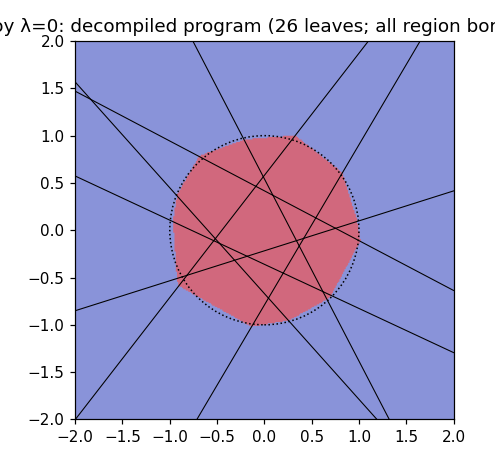
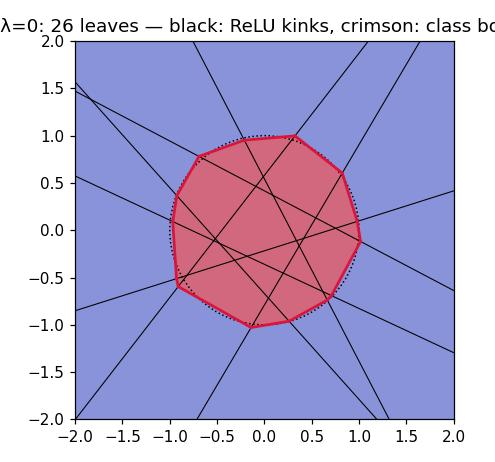
feat(viz): class-boundary overlay + intensional circuit-DAG view
Review follow-ups: (1) the toy overlay drew only ReLU kinks while the
class edge mostly lies INSIDE affine cells (within one cell both logits
are linear and argmax flips where they cross - no kink there); the
overlay now also draws each leaf's logit-crossing segment in crimson,
so region borders (black) and the class decision boundary (crimson)
are both visible and visibly distinct. (2) The decision tree is the
extensional program and explodes with the region count, so
viz.network.plot_folded_dag renders the INTENSIONAL program as a
sparse-circuits-style layered DAG: stage columns with input-space
filter glyphs, signed weighted edges (top-k per consumer), and every
carried coordinate resolved to its origin (earlier unit vs raw input;
raw-input flow aggregates into one affine-bypass node) - the origin
resolver matters: at lambda=1 the 18 units reach the head exclusively
through the carry. Gallery now ships mnist_dag_lam{0.5,1}; empty-stage
edge handling fixed; tests for both.

diff --git a/src/kill_nonlinearities/viz/network.py b/src/kill_nonlinearities/viz/network.py
@@ -22,14 +22,17 @@ import matplotlib
 matplotlib.use("Agg")  # must precede the pyplot import below
 
 import matplotlib.pyplot as plt
+from matplotlib.offsetbox import AnnotationBbox, OffsetImage
 from torch import Tensor
 
 from kill_nonlinearities.analysis.decompile import Branch, Leaf, Node, tree_stats
 from kill_nonlinearities.analysis.statistics import NeuronStats
+from kill_nonlinearities.surgery.fold import FoldedMLP
 
 __all__ = [
     "plot_class_q_matrix",
     "plot_decision_tree",
+    "plot_folded_dag",
     "plot_input_filters",
     "plot_mode_composition",
     "plot_spatial_q_map",
@@ -221,6 +224,174 @@ def plot_decision_tree(
 
     _draw(node)
     ax.set_title(title)
+    try:
+        fig.savefig(path, dpi=110, bbox_inches="tight")
+    finally:
+        plt.close(fig)
+    return path
+
+
+def plot_folded_dag(
+    folded: FoldedMLP,
+    path: Path,
+    image_shape: tuple[int, ...] | None = None,
+    class_names: Sequence[str] | None = None,
+    top_edges: int = 4,
+    title: str = "Folded network as a circuit DAG",
+    max_units: int = 64,
+) -> Path:
+    """The folded network as a layered circuit diagram (sparse-circuits style).
+
+    This is the *intensional* view of the program — the shared computation
+    graph, in contrast to the (exponential) extensional decision tree. One
+    column per surviving-ReLU stage, then the output logits. Stage-0 unit
+    glyphs are their input-space filters when ``image_shape`` is given. Every
+    carried coordinate is resolved back to its ORIGIN (an earlier unit's
+    output, or the raw input), so unit→consumer edges are drawn even when the
+    signal travels through the carry; raw-input contributions are aggregated
+    into one grey "affine bypass" node (edge width ∝ that row block's norm).
+    For each consumer only its ``top_edges`` strongest-|weight| unit inputs
+    are drawn — blue positive, red negative, width ∝ |w|. Refuses networks
+    with more than ``max_units`` surviving units (illegible).
+    """
+    stages = folded.stages
+    widths = [s.out_features for s in stages]
+    total_units = sum(widths)
+    if total_units > max_units:
+        raise ValueError(
+            f"{total_units} surviving units; refusing to render more than "
+            f"{max_units} (raise max_units to override)"
+        )
+    out_dim = folded.head.out_features
+    n_cols = len(stages) + 1
+
+    def _ys(count: int) -> list[float]:
+        if count == 1:
+            return [0.5]
+        return [i / (count - 1) for i in range(count)]
+
+    positions: list[list[tuple[float, float]]] = []
+    for col, width in enumerate(widths):
+        positions.append([(float(col), y) for y in _ys(max(width, 1))][:width])
+    logit_positions = [(float(len(stages)), y) for y in _ys(out_dim)]
+    bypass_position = (float(len(stages)) - 0.5, -0.18)
+
+    fig, ax = plt.subplots(
+        figsize=(3.2 * n_cols, max(4.0, 0.55 * max([*widths, out_dim])))
+    )
+    ax.axis("off")
+    ax.set_xlim(-0.6, len(stages) + 0.6)
+    ax.set_ylim(-0.35, 1.1)
+
+    # Resolve every coordinate of each augmented input u_l to its origin:
+    # ("unit", stage, j) for an earlier ReLU's output, or ("input", i) for a
+    # raw input coordinate carried forward.
+    origins: list[list[tuple]] = [
+        [("input", i) for i in range(stages[0].in_features if stages else 0)]
+    ]
+    for level, (stage, carry) in enumerate(zip(stages, folded.carries, strict=True)):
+        level_origin = [("unit", level, j) for j in range(stage.out_features)]
+        level_origin += [origins[level][int(c)] for c in carry.tolist()]
+        origins.append(level_origin)
+
+    def _draw_edges(
+        weight: Tensor, targets: list[tuple[float, float]], origin: list[tuple]
+    ) -> bool:
+        """Edges into ``targets``; returns whether a bypass edge was drawn."""
+        if weight.numel() == 0:
+            return False
+        unit_cols = [c for c, o in enumerate(origin) if o[0] == "unit"]
+        input_cols = [c for c, o in enumerate(origin) if o[0] == "input"]
+        scale = float(weight.abs().max()) or 1.0
+        used_bypass = False
+        for t, target in enumerate(targets):
+            row = weight[t]
+            unit_weights = row[unit_cols]
+            order = unit_weights.abs().argsort(descending=True)[:top_edges]
+            for k in order.tolist():
+                w = float(unit_weights[k])
+                if w == 0.0:
+                    continue
+                _, stage_idx, j = origin[unit_cols[k]]
+                source = positions[stage_idx][j]
+                ax.plot(
+                    [source[0], target[0]],
+                    [source[1], target[1]],
+                    color="tab:blue" if w > 0 else "tab:red",
+                    lw=0.4 + 2.6 * abs(w) / scale,
+                    alpha=0.65,
+                    zorder=1,
+                )
+            if input_cols:
+                strength = float(row[input_cols].norm())
+                if strength > 0.0:
+                    used_bypass = True
+                    ax.plot(
+                        [bypass_position[0], target[0]],
+                        [bypass_position[1], target[1]],
+                        color="grey",
+                        lw=0.4 + 2.6 * min(1.0, strength / scale),
+                        alpha=0.5,
+                        zorder=1,
+                    )
+        return used_bypass
+
+    used_bypass = False
+    for col in range(1, len(stages)):
+        used_bypass |= _draw_edges(
+            stages[col].weight.detach(), positions[col], origins[col]
+        )
+    if stages:
+        used_bypass |= _draw_edges(
+            folded.head.weight.detach(), logit_positions, origins[len(stages)]
+        )
+
+    # Nodes: stage units (image glyphs at stage 0 when possible), logits, bypass.
+    for col, stage in enumerate(stages):
+        weight = stage.weight.detach().cpu()
+        for j in range(stage.out_features):
+            x, y = positions[col][j]
+            if col == 0 and image_shape is not None:
+                img = weight[j].reshape(image_shape)
+                bound = float(img.abs().max()) or 1.0
+                # Symmetric diverging colors, materialized as RGBA up front.
+                rgba = plt.get_cmap("RdBu_r")((img / bound + 1.0) / 2.0)
+                box = OffsetImage(rgba, zoom=28.0 / max(image_shape))
+                ax.add_artist(AnnotationBbox(box, (x, y), frameon=True, zorder=2))
+            else:
+                ax.scatter([x], [y], s=180, color="lightyellow", ec="grey", zorder=2)
+                ax.text(x, y, f"{col}.{j}", ha="center", va="center", fontsize=6)
+    labels = (
+        list(class_names)
+        if class_names is not None
+        else [str(c) for c in range(out_dim)]
+    )
+    for (x, y), label in zip(logit_positions, labels, strict=True):
+        ax.text(
+            x,
+            y,
+            label,
+            ha="center",
+            va="center",
+            fontsize=8,
+            zorder=2,
+            bbox={"boxstyle": "round", "fc": "lightblue", "ec": "grey"},
+        )
+    if used_bypass:
+        ax.text(
+            bypass_position[0],
+            bypass_position[1],
+            "affine bypass\n(carried input)",
+            ha="center",
+            va="center",
+            fontsize=7,
+            zorder=2,
+            bbox={"boxstyle": "round", "fc": "lightgrey", "ec": "grey"},
+        )
+    ax.set_title(
+        f"{title} — top {top_edges} unit edges per consumer "
+        "(blue +, red -, width ~ |w|)"
+    )
     try:
         fig.savefig(path, dpi=110, bbox_inches="tight")
     finally:

diff --git a/scripts/decompile_report.py b/scripts/decompile_report.py
@@ -193,12 +193,33 @@ def _chord(poly: list[Point], w: list[float], b: float) -> list[Point]:
 
 
 def _draw_boundaries(ax, node, poly: list[Point]) -> None:
-    """Draw EVERY branch hyperplane clipped to its own region (recursively).
+    """Draw region borders AND the class decision boundary (recursively).
 
-    This renders all region borders — including ones separating two regions
-    whose leaves predict the same class.
+    Thin black: every branch hyperplane (ReLU kink) clipped to its own region
+    — including borders separating two same-class regions. Thick crimson: the
+    *argmax* boundary, which lives INSIDE affine cells (within one leaf both
+    logits are linear, and the class flips where they cross — no ReLU kink
+    there), drawn as each leaf's logit-crossing segment clipped to its cell.
     """
-    if not isinstance(node, Branch) or len(poly) < 3:
+    if len(poly) < 3:
+        return
+    if isinstance(node, Leaf):
+        if int(node.weight.shape[0]) == 2:
+            w_dec = [
+                float(node.weight[1, 0] - node.weight[0, 0]),
+                float(node.weight[1, 1] - node.weight[0, 1]),
+            ]
+            b_dec = float(node.bias[1] - node.bias[0])
+            segment = _chord(poly, w_dec, b_dec)
+            if len(segment) == 2:
+                ax.plot(
+                    [segment[0][0], segment[1][0]],
+                    [segment[0][1], segment[1][1]],
+                    color="crimson",
+                    lw=1.8,
+                )
+        return
+    if not isinstance(node, Branch):
         return
     w = [float(node.weight[0]), float(node.weight[1])]
     segment = _chord(poly, w, node.bias)
@@ -231,7 +252,7 @@ def _plot_toy_regions(model: ReLUMLP, tree, lam: float, leaves: int) -> None:
     circle = plt.Circle((0, 0), 1.0, fill=False, color="black", linestyle=":")
     ax.add_patch(circle)
     ax.set_title(
-        f"toy λ={lam:g}: decompiled program ({leaves} leaves; all region borders)"
+        f"toy λ={lam:g}: {leaves} leaves — black: ReLU kinks, crimson: class boundary"
     )
     fig.tight_layout()
     try:

diff --git a/tests/unit/viz/test_network.py b/tests/unit/viz/test_network.py
@@ -6,6 +6,7 @@ import pytest
 import torch
 
 from kill_nonlinearities.analysis.statistics import NeuronStats
+from kill_nonlinearities.surgery.fold import FoldedMLP, fold_mlp, trim_folded
 from kill_nonlinearities.viz import network
 
 
@@ -151,3 +152,32 @@ def test_plot_decision_tree_accepts_leaf_labeler_and_single_leaf(
 def test_plot_decision_tree_refuses_huge_trees(tmp_path: Path) -> None:
     with pytest.raises(ValueError, match="terminal nodes"):
         network.plot_decision_tree(_toy_tree(), tmp_path / "huge.png", max_terminals=1)
+
+
+def _folded(hidden: tuple[int, ...] = (5, 3)) -> FoldedMLP:
+    from kill_nonlinearities.config import ModelConfig
+    from kill_nonlinearities.models.mlp import ReLUMLP
+
+    torch.manual_seed(4)
+    model = ReLUMLP(ModelConfig(input_dim=9, hidden_dims=hidden, output_dim=3))
+    return trim_folded(fold_mlp(model))
+
+
+def test_plot_folded_dag_writes_nonempty_file(tmp_path: Path) -> None:
+    out = network.plot_folded_dag(_folded(), tmp_path / "dag.png")
+    assert out.stat().st_size > 0
+
+
+def test_plot_folded_dag_with_image_glyphs_and_class_names(tmp_path: Path) -> None:
+    out = network.plot_folded_dag(
+        _folded(),
+        tmp_path / "dag_glyphs.png",
+        image_shape=(3, 3),
+        class_names=("a", "b", "c"),
+    )
+    assert out.stat().st_size > 0
+
+
+def test_plot_folded_dag_refuses_wide_networks(tmp_path: Path) -> None:
+    with pytest.raises(ValueError, match="surviving units"):
+        network.plot_folded_dag(_folded(), tmp_path / "wide.png", max_units=2)

diff --git a/scripts/denonlin_gallery.py b/scripts/denonlin_gallery.py
@@ -39,6 +39,7 @@ from kill_nonlinearities.surgery.fold import fold_mlp, folded_stats, trim_folded
 from kill_nonlinearities.training.checkpoint import load_checkpoint
 from kill_nonlinearities.viz.network import (
     plot_class_q_matrix,
+    plot_folded_dag,
     plot_input_filters,
     plot_mode_composition,
     plot_spatial_q_map,
@@ -125,6 +126,17 @@ def mnist_gallery() -> None:
                 OUT_DIR / f"mnist_affine_templates_lam{lam:g}.png",
                 title=f"MNIST λ={lam:g}: the folded network IS this affine map "
                 "(per-class templates)",
+            )
+        elif sum(fstats.nonlinear_widths) <= 64:
+            # The intensional program view: the folded network as a circuit DAG.
+            plot_folded_dag(
+                folded,
+                OUT_DIR / f"mnist_dag_lam{lam:g}.png",
+                image_shape=(28, 28),
+                title=(
+                    f"MNIST λ={lam:g}: the folded network as a circuit "
+                    f"({sum(fstats.nonlinear_widths)} surviving ReLUs)"
+                ),
             )
 
         # Class-indexed firing: which classes does each unit fire for?

diff --git a/docs/research/README.md b/docs/research/README.md
@@ -332,14 +332,38 @@ Tracked work, roughly in order. (File these as GitHub issues — see
   Decompiling the CNN globally needs the census driven down first: much
   stronger/targeted consistency pressure, coarser branch predicates (e.g.
   channel-level tests), or per-sample local programs.
+- **Result 3 — the class boundary is not the region borders.** Review caught
+  that the toy overlay drew only the ReLU kinks (black) while the red/blue
+  class edge mostly didn't lie on them. That is correct behavior made
+  confusing: within one affine cell both logits are linear, so the **argmax
+  boundary cuts through cell interiors** where the logits cross — no ReLU
+  involved. The overlay now also draws each leaf's logit-crossing segment
+  (crimson): the class boundary appears as a polygon of leaf-internal
+  segments hugging the true circle, visibly distinct from the black kinks.
+
+  | λ=0.3: kinks (black) + class boundary (crimson) | λ=0.3 tree diagram |
+  | --- | --- |
+  | ![toy boundaries](assets/decompile_toy_lam0.3.png) | ![toy tree](assets/decompile_toy_tree_lam0.3.png) |
+- **Result 4 — the intensional view: the folded network as a circuit DAG.**
+  The decision tree is the *extensional* program (it enumerates cases — and
+  the census shows that explodes at λ=0). `viz.network.plot_folded_dag` renders
+  the *intensional* program instead, sparse-circuits style: one column per
+  surviving-ReLU stage (stage-0 glyphs are the units' input-space filters),
+  output logits on the right, edges = the strongest signed weights per
+  consumer, and every carried coordinate **resolved to its origin** (an
+  earlier unit or the raw input — raw-input flow aggregates into one grey
+  "affine bypass" node). MNIST λ=1's whole program is then one readable
+  picture: 18 stroke-detector glyphs voting into 10 logits over a shared
+  affine bypass (`assets/denonlin/mnist_dag_lam1.png`, also λ=0.5 with 55
+  units).
 - **Takeaway:** building the trees from the data (rather than the input box)
   is the right default — the box/LP machinery remains the *certification*
   layer (a natural hybrid: LP-certify a data-built tree's regions), while the
   data oracle gives compact, faithful programs where consistency is high. The
   census (`distinct regions ÷ samples`) is the cleanest single number for
   "how decompilable is this network", and λ moves it by orders of magnitude on
-  the MLP. The toy now ships with full region-border overlays and tree
-  diagrams (`assets/decompile_toy_*`).
+  the MLP. For program-as-artifact viewing, prefer the **DAG (intensional)**
+  for anything wide and the tree (extensional) only when the census is small.
 
 ### 2026-06-11 — Phase 5: decompiling networks into nested conditionals
 
